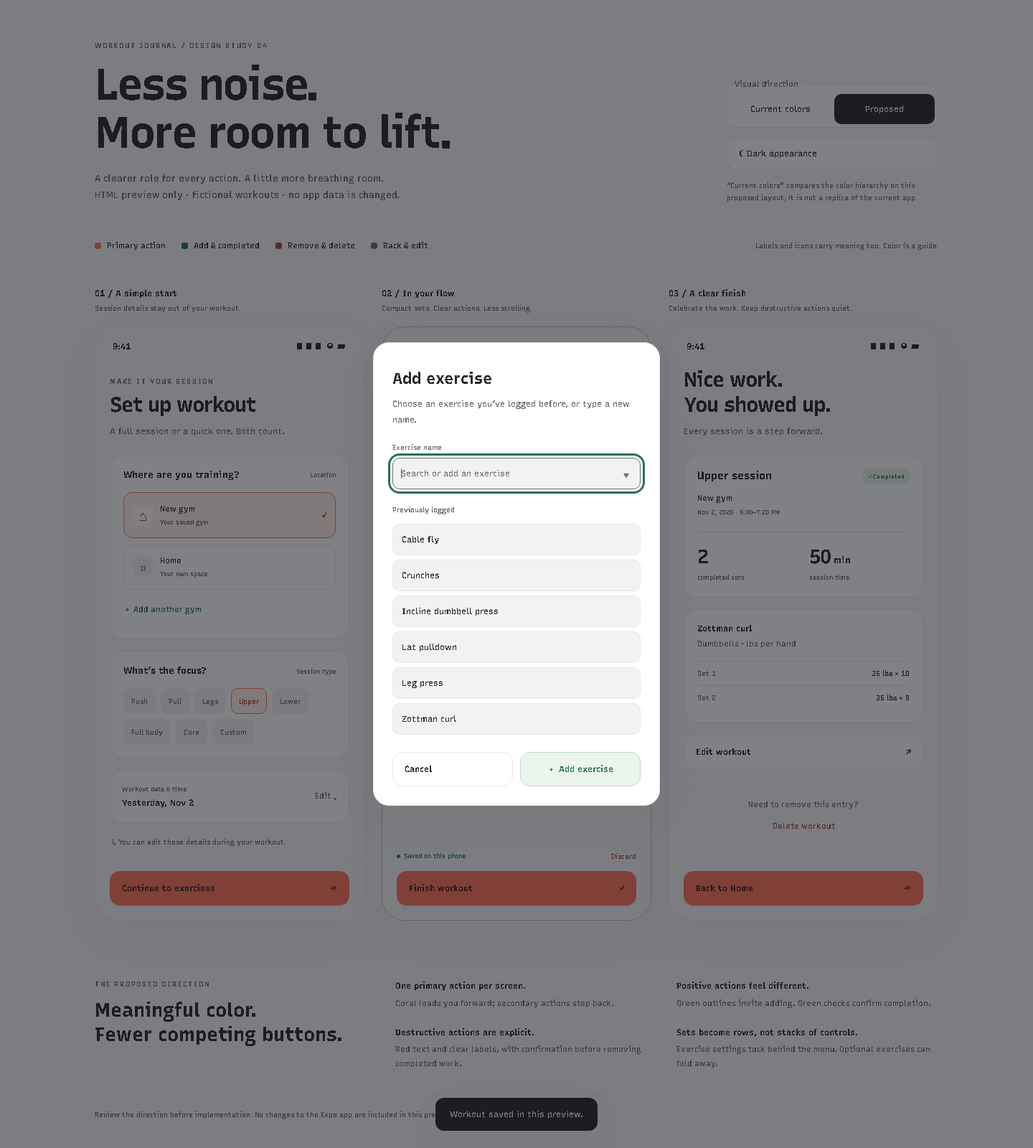
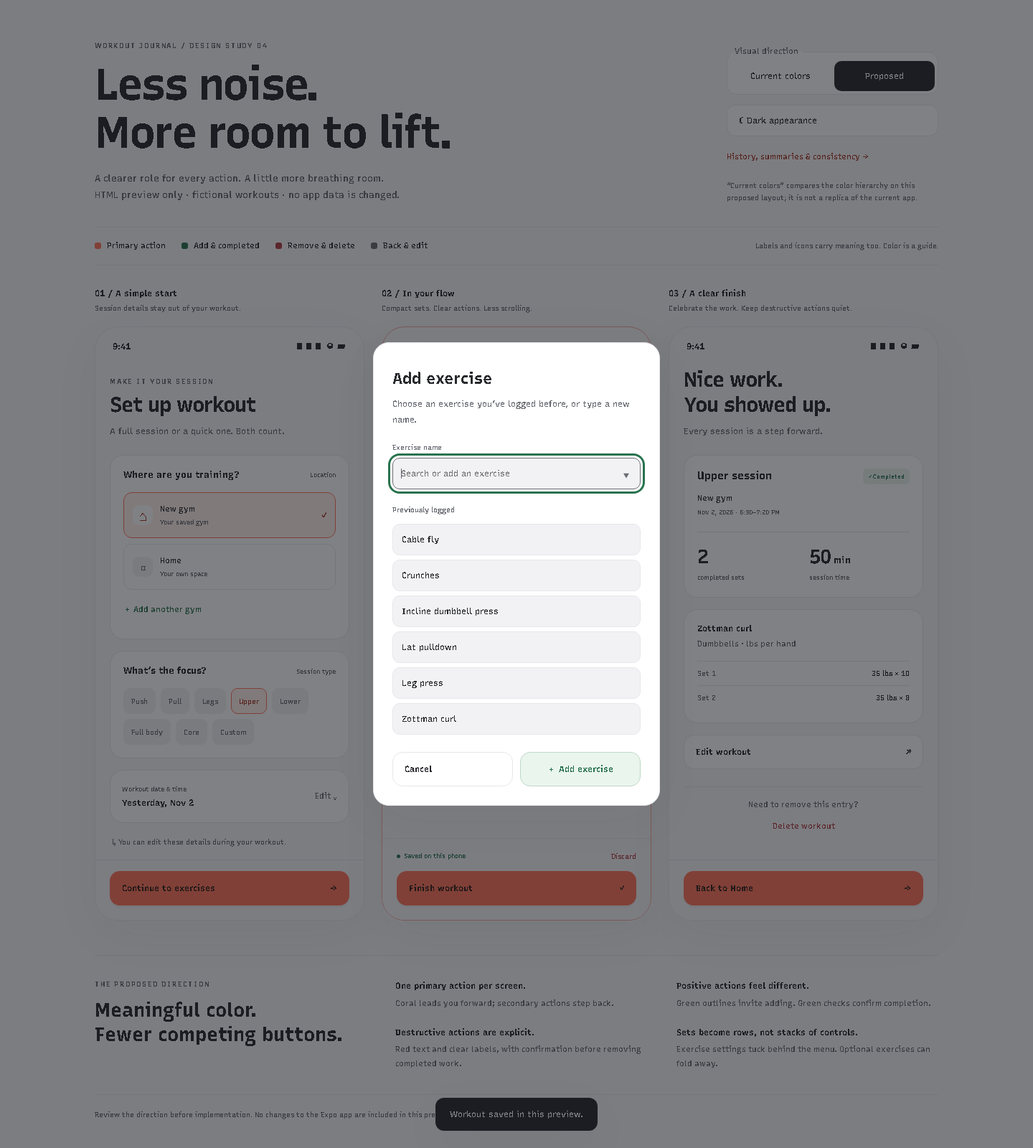
design: preview history summaries and weekly consistency

Changed region(s): [[0.7812, 0.0312, 0.9062, 0.125]]

diff --git a/previews/ui-overhaul/activity-preview.js b/previews/ui-overhaul/activity-preview.js
@@ -1,0 +1,154 @@
+(() => {
+  const $ = selector => document.querySelector(selector);
+  const $$ = selector => [...document.querySelectorAll(selector)];
+  const asOf = '2026-11-04', goal = 3;
+  const date = value => new Date(`${value}T12:00:00Z`);
+  const iso = value => value.toISOString().slice(0, 10);
+  const shift = (value, days) => { const result = date(value); result.setUTCDate(result.getUTCDate() + days); return iso(result); };
+  const fmt = (value, options) => new Intl.DateTimeFormat('en', { timeZone: 'UTC', ...options }).format(date(value));
+  const weekStart = value => shift(value, -((date(value).getUTCDay() + 6) % 7));
+  const monthStart = value => `${value.slice(0, 7)}-01`;
+  const addMonths = (value, amount) => { const result = date(monthStart(value)); result.setUTCMonth(result.getUTCMonth() + amount); return iso(result); };
+  const el = (tag, className, text) => { const node = document.createElement(tag); if (className) node.className = className; if (text !== undefined) node.textContent = text; return node; };
+  const duration = minutes => minutes >= 60 ? `${Math.floor(minutes / 60)}h${minutes % 60 ? ` ${minutes % 60}m` : ''}` : `${minutes}m`;
+  const activeDays = items => new Set(items.map(item => item.day)).size;
+  const exercise = (name, load, reps, groups) => ({ name, groups, sets: [{ load, reps }, { load, reps }] });
+  const exercises = {
+    Push: [exercise('Incline dumbbell press', '35 lbs per hand', 10, ['Chest', 'Shoulders', 'Triceps'])],
+    Pull: [exercise('Lat pulldown', '90 lbs', 10, ['Back', 'Biceps'])],
+    Legs: [exercise('Leg press', '135 lbs per side', 10, ['Quads', 'Glutes'])],
+    Upper: [exercise('Dumbbell press', '40 lbs per hand', 8, ['Chest', 'Shoulders']), exercise('Cable row', '100 lbs', 10, ['Back', 'Biceps'])],
+    Lower: [exercise('Goblet squat', '45 lbs', 10, ['Quads', 'Glutes'])],
+    'Full Body': [exercise('Goblet squat', '45 lbs', 10, ['Quads', 'Glutes']), exercise('Cable row', '100 lbs', 10, ['Back', 'Biceps'])],
+    Core: [exercise('Crunches', 'Bodyweight', 15, ['Core'])],
+  };
+  // Shared fictional history: five achieved weeks, then an open week with two active days.
+  const closedDates = ['2026-09-28', '2026-09-30', '2026-10-02', '2026-10-05', '2026-10-07', '2026-10-09', '2026-10-12', '2026-10-14', '2026-10-16', '2026-10-19', '2026-10-21', '2026-10-23', '2026-10-26', '2026-10-28', '2026-10-30'];
+  const types = ['Push', 'Pull', 'Legs', 'Upper', 'Lower', 'Full Body'];
+  const sessions = closedDates.map((day, index) => ({ day, type: types[index % types.length], kind: index % 4 === 3 ? 'home' : 'gym', minutes: 45 + (index % 3) * 5, time: '18:30' }));
+  sessions.push({ day: '2026-11-02', type: 'Upper', kind: 'gym', minutes: 50, time: '18:30' }, { day: asOf, type: 'Push', kind: 'gym', minutes: 40, time: '07:00' }, { day: asOf, type: 'Core', kind: 'home', minutes: 15, time: '19:00' });
+  sessions.forEach((session, index) => { session.id = `sample-${index}`; session.exercises = exercises[session.type]; session.location = session.kind === 'home' ? 'Home' : 'The neighborhood gym'; });
+  const between = (start, end) => sessions.filter(session => session.day >= start && session.day < end);
+  let historyMonth = monthStart(asOf), locationFilter = 'all', summaryMode = 'month', summaryAnchor = monthStart(asOf), pendingGoal = null;
+  function showScreen(screen) {
+    $('.activity-screens').dataset.active = screen;
+    $$('[data-activity-screen]').forEach(button => button.setAttribute('aria-pressed', String(button.dataset.activityScreen === screen)));
+    $(`[data-panel="${screen}"] .phone-content`).scrollTop = 0;
+    if (matchMedia('(max-width:760px)').matches) $('.screen-tabs').scrollIntoView({ block: 'start' });
+  }
+  function filtered(items) { return items.filter(session => locationFilter === 'all' || session.kind === locationFilter); }
+  function openDay(day) {
+    const items = filtered(sessions.filter(session => session.day === day));
+    $('#day-title').textContent = fmt(day, { weekday: 'long', month: 'long', day: 'numeric' });
+    $('#day-overview').textContent = items.length ? `${items.length} workout${items.length === 1 ? '' : 's'} · 1 active day · ${duration(items.reduce((sum, item) => sum + item.minutes, 0))} recorded` : 'No workouts recorded for this day and location filter.';
+    const cards = items.map(item => {
+      const card = el('article', 'day-session'); card.append(el('h3', '', `${item.type} session`), el('p', 'muted', `${item.location} · ${item.time} · ${item.minutes} min`));
+      item.exercises.forEach(entry => {
+        const block = el('div', 'day-exercise'); block.append(el('strong', '', entry.name));
+        entry.sets.forEach((set, index) => block.append(el('p', 'muted', `Set ${index + 1}: ${set.load} × ${set.reps} reps`))); card.append(block);
+      }); return card;
+    });
+    $('#day-workouts').replaceChildren(...(cards.length ? cards : [el('p', 'day-empty', 'A rest day is part of the bigger picture.')]));
+    $('#day-dialog').showModal(); $('#close-day').focus();
+  }
+  function renderHistory() {
+    const end = addMonths(historyMonth, 1), items = filtered(between(historyMonth, end));
+    $('#calendar-month').textContent = fmt(historyMonth, { month: 'long', year: 'numeric' });
+    $('#calendar-total').textContent = `${activeDays(items)} active day${activeDays(items) === 1 ? '' : 's'} · ${items.length} workout${items.length === 1 ? '' : 's'}`;
+    $('#history-list-title').textContent = historyMonth === monthStart(asOf) ? 'This month' : fmt(historyMonth, { month: 'long' });
+    const cells = Array.from({ length: (date(historyMonth).getUTCDay() + 6) % 7 }, () => { const blank = el('span'); blank.setAttribute('aria-hidden', 'true'); return blank; });
+    for (let day = historyMonth; day < end; day = shift(day, 1)) {
+      const matches = items.filter(item => item.day === day);
+      const button = el('button', `${matches.length ? 'has-workout' : ''} ${matches.length > 1 ? 'multiple' : ''} ${day === asOf ? 'today' : ''} ${day > asOf ? 'future' : ''}`, String(date(day).getUTCDate()));
+      button.dataset.historyDay = day;
+      button.setAttribute('aria-label', `${fmt(day, { weekday: 'long', month: 'long', day: 'numeric', year: 'numeric' })}, ${matches.length} workouts${day === asOf ? ', today' : ''}`);
+      if (day === asOf) button.setAttribute('aria-current', 'date');
+      button.addEventListener('click', () => openDay(day)); cells.push(button);
+    }
+    $('#calendar-days').replaceChildren(...cells);
+    const rows = items.slice().sort((a, b) => b.day.localeCompare(a.day) || b.time.localeCompare(a.time)).map(item => {
+      const button = el('button', 'history-entry'); button.setAttribute('aria-label', `Open ${item.type} workout on ${item.day}`);
+      const tile = el('span', 'date-tile'); tile.append(el('strong', '', String(date(item.day).getUTCDate())), el('small', '', fmt(item.day, { weekday: 'short' })));
+      const copy = el('span', 'entry-copy'); copy.append(el('strong', '', `${item.type} session`), el('small', '', `${item.location} · ${item.minutes} min`));
+      const arrow = el('span', 'entry-arrow', '›'); arrow.setAttribute('aria-hidden', 'true'); button.append(tile, copy, arrow); button.addEventListener('click', () => openDay(item.day)); return button;
+    });
+    $('#history-list').replaceChildren(...(rows.length ? rows : [el('p', 'empty-history', 'No workouts recorded here yet. Choose another month or location.')]));
+  }
+  function summaryRange() {
+    if (summaryMode === 'week') { const start = weekStart(summaryAnchor); return { start, end: shift(start, 7) }; }
+    if (summaryMode === 'year') return { start: `${summaryAnchor.slice(0, 4)}-01-01`, end: `${Number(summaryAnchor.slice(0, 4)) + 1}-01-01` };
+    return { start: monthStart(summaryAnchor), end: addMonths(summaryAnchor, 1) };
+  }
+  function renderSummary() {
+    const { start, end } = summaryRange(), items = between(start, end);
+    const label = summaryMode === 'year' ? start.slice(0, 4) : summaryMode === 'month' ? fmt(start, { month: 'long', year: 'numeric' }) : `${fmt(start, { month: 'short', day: 'numeric' })}–${fmt(shift(end, -1), { month: 'short', day: 'numeric' })}`;
+    $('#summary-period-title').textContent = label;
+    $('#summary-period-note').textContent = start <= asOf && end > asOf ? 'So far · through Nov 4' : start > asOf ? 'No recorded activity' : 'Completed period';
+    $('#summary-days').textContent = activeDays(items); $('#summary-sessions').textContent = items.length; $('#summary-time').textContent = duration(items.reduce((sum, item) => sum + item.minutes, 0));
+    $('#summary-gym').textContent = items.filter(item => item.kind === 'gym').length; $('#summary-home').textContent = items.filter(item => item.kind === 'home').length;
+    $('#summary-empty').hidden = items.length > 0;
+    $('#summary-goal-context').hidden = summaryMode === 'month';
+    if (summaryMode === 'week') $('#summary-goal-context').textContent = `${activeDays(items)} / ${goal} active days · Weekly goal`;
+    if (summaryMode === 'year') {
+      let running = 0, longest = 0;
+      for (let week = weekStart(start); week < end; week = shift(week, 7)) {
+        running = activeDays(between(week, shift(week, 7))) >= goal ? running + 1 : 0;
+        longest = Math.max(longest, running);
+      }
+      $('#summary-goal-context').textContent = `Longest weekly streak: ${longest} weeks in this year`;
+    }
+    const buckets = [];
+    if (summaryMode === 'year') {
+      for (let month = 0; month < 12; month++) { const bucket = `${start.slice(0, 4)}-${String(month + 1).padStart(2, '0')}-01`; buckets.push({ label: fmt(bucket, { month: 'narrow' }), description: fmt(bucket, { month: 'long' }), value: activeDays(items.filter(item => item.day.startsWith(bucket.slice(0, 7)))) }); }
+    } else if (summaryMode === 'week') {
+      for (let offset = 0; offset < 7; offset++) { const bucket = shift(start, offset); buckets.push({ label: fmt(bucket, { weekday: 'narrow' }), description: fmt(bucket, { weekday: 'long' }), value: activeDays(items.filter(item => item.day === bucket)) }); }
+    } else {
+      for (let bucket = start; bucket < end; bucket = shift(bucket, 7)) {
+        const next = shift(bucket, 7) < end ? shift(bucket, 7) : end;
+        buckets.push({ label: `${date(bucket).getUTCDate()}–${date(shift(next, -1)).getUTCDate()}`, description: `Days ${date(bucket).getUTCDate()}–${date(shift(next, -1)).getUTCDate()}`, value: activeDays(items.filter(item => item.day >= bucket && item.day < next)) });
+      }
+    }
+    const max = Math.max(1, ...buckets.map(bucket => bucket.value));
+    $('#chart-unit').textContent = summaryMode === 'year' ? 'Active days / month' : summaryMode === 'month' ? 'Active days / date range' : 'Activity by day';
+    $('#activity-chart').setAttribute('aria-label', buckets.map(bucket => `${bucket.description}: ${bucket.value} active days`).join(', '));
+    $('#activity-chart').replaceChildren(...buckets.map(bucket => { const column = el('div', 'chart-column'); const bar = el('span', `bar${bucket.value ? '' : ' zero'}`); bar.style.height = `${Math.max(2, bucket.value / max * 65)}px`; column.append(el('strong', '', String(bucket.value)), bar, el('small', '', bucket.label)); return column; }));
+    const shownTypes = [...new Set(['Push', 'Pull', 'Legs', ...items.map(item => item.type)])];
+    $('#type-breakdown').replaceChildren(...shownTypes.map(type => {
+      const count = items.filter(item => item.type === type).length;
+      const row = el('div', 'type-row'); row.dataset.type = type; row.dataset.count = count;
+      const track = el('span', 'type-track'), fill = el('span', 'type-fill'); fill.style.width = `${items.length ? count / items.length * 100 : 0}%`; track.append(fill); row.append(el('span', '', type), track, el('strong', '', String(count))); return row;
+    }));
+    const groups = [...new Set(items.flatMap(item => item.exercises.flatMap(entry => entry.groups)))].sort();
+    $('#muscle-chips').replaceChildren(...(groups.length ? groups.map(group => el('span', '', group)) : [el('p', 'small muted', 'No exercise coverage recorded in this period.')]));
+  }
+  function renderConsistency() {
+    const current = weekStart(asOf), first = weekStart(sessions[0].day), weeks = [];
+    for (let start = first; start <= current; start = shift(start, 7)) { const days = activeDays(between(start, shift(start, 7))); weeks.push({ start, days, met: days >= goal }); }
+    let longest = 0, running = 0;
+    weeks.forEach(week => { running = week.met ? running + 1 : 0; longest = Math.max(longest, running); });
+    let cursor = weeks.length - 1, streak = 0; if (!weeks[cursor].met) cursor--;
+    while (cursor >= 0 && weeks[cursor].met) { streak++; cursor--; }
+    $('#current-streak').textContent = streak; $('#longest-streak').textContent = `${longest} weeks`;
+    const currentDays = weeks.at(-1).days; $('#week-active').textContent = currentDays;
+    $('.goal-track').setAttribute('aria-valuenow', String(Math.min(goal, currentDays))); $('.goal-track>span').style.width = `${Math.min(1, currentDays / goal) * 100}%`;
+    $('#consistency-week').replaceChildren(...Array.from({ length: 7 }, (_, index) => {
+      const day = shift(current, index), active = sessions.some(item => item.day === day);
+      const cell = el('span', `${active ? 'active' : ''} ${day === asOf ? 'today' : ''}`); cell.setAttribute('aria-label', `${fmt(day, { weekday: 'long', month: 'short', day: 'numeric' })}, ${active ? 'workout completed' : 'no workout logged'}`); cell.append(el('small', '', fmt(day, { weekday: 'narrow' })), el('b', '', active ? '✓' : String(date(day).getUTCDate()))); return cell;
+    }));
+    $('#past-weeks').replaceChildren(...weeks.slice(0, -1).reverse().map(week => { const row = el('div', 'past-week'); row.append(el('span', '', `${fmt(week.start, { month: 'short', day: 'numeric' })}–${fmt(shift(week.start, 6), { month: 'short', day: 'numeric' })}`), el('span', week.met ? 'met' : 'muted', week.met ? `✓ ${week.days}/${goal} days` : `${week.days}/${goal} days`)); return row; }));
+  }
+  $('#theme-toggle').addEventListener('click', () => { const dark = document.documentElement.dataset.theme !== 'dark'; document.documentElement.dataset.theme = dark ? 'dark' : 'light'; $('#theme-toggle').setAttribute('aria-pressed', String(dark)); $('#theme-toggle').textContent = dark ? '☀ Light appearance' : '☾ Dark appearance'; });
+  $$('[data-activity-screen]').forEach(button => button.addEventListener('click', () => showScreen(button.dataset.activityScreen)));
+  $$('[data-filter]').forEach(button => button.addEventListener('click', () => { locationFilter = button.dataset.filter; $$('[data-filter]').forEach(item => item.setAttribute('aria-pressed', String(item === button))); renderHistory(); }));
+  $('#history-previous').addEventListener('click', () => { historyMonth = addMonths(historyMonth, -1); renderHistory(); });
+  $('#history-next').addEventListener('click', () => { historyMonth = addMonths(historyMonth, 1); renderHistory(); });
+  $('#close-day').addEventListener('click', () => $('#day-dialog').close());
+  $$('[data-period]').forEach(button => button.addEventListener('click', () => { summaryMode = button.dataset.period; summaryAnchor = asOf; $$('[data-period]').forEach(item => item.setAttribute('aria-pressed', String(item === button))); renderSummary(); }));
+  function moveSummary(direction) { summaryAnchor = summaryMode === 'week' ? shift(summaryAnchor, 7 * direction) : addMonths(summaryAnchor, (summaryMode === 'year' ? 12 : 1) * direction); renderSummary(); }
+  $('#summary-previous').addEventListener('click', () => moveSummary(-1)); $('#summary-next').addEventListener('click', () => moveSummary(1));
+  $('#open-consistency').addEventListener('click', () => showScreen('consistency'));
+  $('#change-goal').addEventListener('click', () => { $('#goal-select').value = String(pendingGoal ?? goal); $('#goal-dialog').showModal(); });
+  $('#cancel-goal').addEventListener('click', () => $('#goal-dialog').close());
+  $('#goal-form').addEventListener('submit', event => { event.preventDefault(); pendingGoal = Number($('#goal-select').value); $('#pending-goal').hidden = false; $('#pending-goal').textContent = `Next Monday, Nov 9: ${pendingGoal} active days per week.`; $('#goal-dialog').close(); });
+  renderHistory(); renderSummary(); renderConsistency();
+})();

diff --git a/previews/ui-overhaul/activity-preview.html b/previews/ui-overhaul/activity-preview.html
@@ -1,0 +1,42 @@
+<!doctype html>
+<html lang="en" data-theme="light" data-style="proposed">
+<head><meta charset="utf-8"><meta name="viewport" content="width=device-width,initial-scale=1"><meta name="color-scheme" content="light dark"><title>Workout journal — History, summaries & consistency</title><link rel="stylesheet" href="ui-overhaul-preview.css"><link rel="stylesheet" href="activity-preview.css"><script src="activity-preview.js" defer></script></head>
+<body>
+  <header class="preview-header"><div><p class="eyebrow">WORKOUT JOURNAL / DESIGN STUDY 04</p><h1>See the work.<br>Keep the momentum.</h1><p class="intro">History, summaries, and weekly consistency in the same visual language.<br>Interactive HTML only · fictional history through November 4, 2026.</p></div><div class="preview-controls"><a class="button secondary" href="ui-overhaul-preview.html">← Workout flow preview</a><button class="theme-toggle" id="theme-toggle" aria-pressed="false">☾ Dark appearance</button><p class="control-note">One shared sample history feeds every view. Two sessions in one day still count as one active day.</p></div></header>
+  <nav class="screen-tabs" aria-label="Activity preview screens"><button data-activity-screen="history" aria-pressed="true">01 History</button><button data-activity-screen="summary" aria-pressed="false">02 Summary</button><button data-activity-screen="consistency" aria-pressed="false">03 Consistency</button></nav>
+  <main class="screens activity-screens" data-active="history">
+    <section class="screen-panel" data-panel="history" aria-labelledby="history-caption"><div class="panel-caption"><h2 id="history-caption">01 / Your training history</h2><p>A calendar to explore. A record to come back to.</p></div><div class="phone"><div class="status-bar" aria-hidden="true"><span>9:41</span><span class="status-icons">▮▮▮ ◒ ▰</span></div><div class="phone-content">
+      <a class="back-link neutral" href="ui-overhaul-preview.html">‹ Home</a><p class="eyebrow">ONE SESSION AT A TIME</p><h3>History</h3><p class="muted">Your effort, all in one place.</p>
+      <div class="filter-tabs" role="group" aria-label="Workout location filter"><button data-filter="all" aria-pressed="true">All workouts</button><button data-filter="gym" aria-pressed="false">Gym</button><button data-filter="home" aria-pressed="false">Home</button></div>
+      <div class="card activity-calendar"><div class="period-navigation"><button class="icon-button neutral" id="history-previous" aria-label="Previous month">‹</button><h4 id="calendar-month">November 2026</h4><button class="icon-button neutral" id="history-next" aria-label="Next month">›</button></div><div class="calendar-weekdays" aria-hidden="true"><span>M</span><span>T</span><span>W</span><span>T</span><span>F</span><span>S</span><span>S</span></div><div class="activity-days" id="calendar-days"></div><div class="calendar-key"><span><i></i> Workout logged</span><span>Ring = today</span></div><p class="calendar-total" id="calendar-total" aria-live="polite"></p></div>
+      <div class="section-heading history-list-heading"><h4 id="history-list-title">This month</h4><span class="tiny-label">Most recent first</span></div><div id="history-list"></div>
+    </div><div class="phone-footer"><a class="button primary" href="ui-overhaul-preview.html">Log a workout <span aria-hidden="true">＋</span></a></div></div></section>
+
+    <section class="screen-panel" data-panel="summary" aria-labelledby="summary-caption"><div class="panel-caption"><h2 id="summary-caption">02 / The bigger picture</h2><p>Useful patterns, without a wall of numbers.</p></div><div class="phone featured"><div class="status-bar" aria-hidden="true"><span>9:41</span><span class="status-icons">▮▮▮ ◒ ▰</span></div><div class="phone-content">
+      <a class="back-link neutral" href="ui-overhaul-preview.html">‹ Home</a><p class="eyebrow">SMALL SESSIONS ADD UP</p><h3>Your summary</h3><p class="muted">A little perspective on your progress.</p>
+      <div class="filter-tabs" role="group" aria-label="Summary period"><button data-period="week" aria-pressed="false">Week</button><button data-period="month" aria-pressed="true">Month</button><button data-period="year" aria-pressed="false">Year</button></div>
+      <div class="period-navigation summary-navigation"><button class="icon-button neutral" id="summary-previous" aria-label="Previous summary period">‹</button><div><h4 id="summary-period-title">November 2026</h4><p class="small muted" id="summary-period-note">So far · through Nov 4</p></div><button class="icon-button neutral" id="summary-next" aria-label="Next summary period">›</button></div>
+      <div class="overview-metrics" aria-live="polite"><div><strong id="summary-days">2</strong><span>active days</span></div><div><strong id="summary-sessions">3</strong><span>workouts</span></div><div><strong id="summary-time">1h 45m</strong><span>recorded time</span></div></div>
+      <p class="period-context" id="summary-goal-context" hidden></p>
+      <p class="summary-empty" id="summary-empty" hidden>No workouts recorded in this period. Your next session can be your starting point.</p>
+      <div class="card chart-card"><div class="section-heading"><h4>Showing up</h4><span class="tiny-label" id="chart-unit">Active days / week</span></div><div id="activity-chart" class="activity-chart" role="img" aria-label="Active days by week"></div><p class="small muted">A day counts once, even with multiple sessions.</p></div>
+      <div class="card breakdown-card"><div class="section-heading"><h4>How you trained</h4><span class="tiny-label">Workout sessions</span></div><div id="type-breakdown"></div><p class="small muted breakdown-note">A short Push session still counts as one Push workout.</p></div>
+      <div class="card"><div class="section-heading"><h4>Where you trained</h4></div><div class="location-breakdown"><span>Gym <strong id="summary-gym">2</strong></span><span>Home <strong id="summary-home">1</strong></span></div></div>
+      <div class="card"><div class="section-heading"><h4>Muscles trained</h4><span class="tiny-label">From logged exercises</span></div><div class="muscle-chips" id="muscle-chips"></div><p class="small muted coverage-note">Groups can overlap within one workout.</p></div>
+    </div><div class="phone-footer"><button class="button secondary neutral" id="open-consistency">See weekly consistency <span aria-hidden="true">→</span></button></div></div></section>
+
+    <section class="screen-panel" data-panel="consistency" aria-labelledby="consistency-caption"><div class="panel-caption"><h2 id="consistency-caption">03 / A rhythm that fits</h2><p>Weekly goals, with room for real life.</p></div><div class="phone"><div class="status-bar" aria-hidden="true"><span>9:41</span><span class="status-icons">▮▮▮ ◒ ▰</span></div><div class="phone-content">
+      <a class="back-link neutral" href="ui-overhaul-preview.html">‹ Home</a><p class="eyebrow">CONSISTENCY OVER PERFECTION</p><h3>Keep showing up</h3><p class="muted">Rest days belong in the plan, too.</p>
+      <div class="card streak-hero"><span class="success-badge">Weekly streak</span><div class="streak-number"><strong id="current-streak">5</strong><span>weeks<br>consistent</span></div><p>Your weekly goal met, five weeks in a row.</p><div class="streak-best"><span>Longest streak</span><strong id="longest-streak">5 weeks</strong></div></div>
+      <div class="card weekly-goal-card"><div class="section-heading"><h4>This week</h4><span class="tiny-label">Nov 2–8</span></div><div class="weekly-goal-value"><strong><span id="week-active">2</span><small> / 3</small></strong><span>active days</span><span class="session-tag">In progress</span></div><div class="goal-track" role="progressbar" aria-label="Weekly activity goal" aria-valuemin="0" aria-valuemax="3" aria-valuenow="2"><span></span></div><div class="consistency-week" id="consistency-week"></div><p class="small muted">One more active day meets your goal. Gym and home workouts both count.</p></div>
+      <div class="goal-setting"><div><p class="small muted">Your weekly goal</p><strong>3 active days</strong></div><button class="text-button neutral" id="change-goal">Change</button></div><p id="pending-goal" class="pending-goal" role="status" hidden></p>
+      <div class="section-heading past-weeks-heading"><h4>Recent weeks</h4><span class="tiny-label">Monday–Sunday</span></div><div class="past-weeks" id="past-weeks"></div>
+      <p class="quiet-note">This week is still open. Your streak stays intact while you work toward your goal.</p>
+    </div><div class="phone-footer"><a class="button primary" href="ui-overhaul-preview.html">Start a workout <span aria-hidden="true">→</span></a></div></div></section>
+  </main>
+  <section class="rationale"><div><p class="eyebrow">THE CONNECTION BETWEEN THEM</p><h2>One history.<br>Three useful views.</h2></div><ul><li><strong>History answers “what did I do?”</strong> Tap a date to see every session, exercise, and completed set.</li><li><strong>Summary answers “how have I trained?”</strong> Switch week, month, or year; see session types, locations, and activity.</li><li><strong>Consistency answers “am I finding a rhythm?”</strong> Weekly goals reward repeat attendance while leaving room for rest.</li><li><strong>No invented fitness score.</strong> Active days and sessions stay distinct. An unfinished week is still in progress.</li></ul></section>
+  <footer class="preview-footer">Fictional data for visual review. Calendar/history/reporting are not connected to the native app yet.</footer>
+  <dialog id="day-dialog" aria-labelledby="day-title"><div class="day-dialog-heading"><div><p class="eyebrow">WORKOUT HISTORY</p><h2 id="day-title">Wednesday, November 4</h2></div><button class="icon-button neutral" id="close-day" aria-label="Close day details">×</button></div><p id="day-overview"></p><div id="day-workouts"></div></dialog>
+  <dialog id="goal-dialog" aria-labelledby="goal-title"><h2 id="goal-title">A goal that fits your week</h2><p>Choose active days, not a fixed split. Push, Pull, Legs, full body, and home sessions all count.</p><form id="goal-form"><label>Active days per week<select id="goal-select"><option value="1">1 day</option><option value="2">2 days</option><option value="3" selected>3 days</option><option value="4">4 days</option><option value="5">5 days</option><option value="6">6 days</option><option value="7">7 days</option></select></label><p class="small muted">Changes start next Monday, Nov 9. This week’s goal stays at 3 days.</p><div class="dialog-actions"><button type="button" class="button secondary neutral" id="cancel-goal">Cancel</button><button type="submit" class="button primary">Save goal</button></div></form></dialog>
+</body>
+</html>

diff --git a/previews/ui-overhaul/activity-preview.css b/previews/ui-overhaul/activity-preview.css
@@ -1,0 +1,5 @@
+a{text-decoration:none}button,a{-webkit-tap-highlight-color:transparent}.activity-screens .phone-content>.muted{margin-bottom:20px}.filter-tabs{display:flex;border:1px solid var(--line);background:var(--surface);padding:4px;border-radius:12px;gap:4px}.filter-tabs button{flex:1;background:transparent;color:var(--muted);font-size:10px;min-height:38px;border-radius:9px;padding:7px 5px}.filter-tabs button[aria-pressed=true]{background:var(--coral-soft);color:var(--coral-ink);font-weight:700}.period-navigation{display:flex;align-items:center;justify-content:space-between;gap:6px}.period-navigation h4{font-size:13px;text-align:center}.period-navigation .icon-button{font-size:25px;width:32px}.activity-calendar{padding:12px 12px 0}.calendar-weekdays,.activity-days{display:grid;grid-template-columns:repeat(7,minmax(0,1fr));gap:3px;text-align:center}.calendar-weekdays{font-size:9px;color:var(--muted);padding:10px 0 8px}.activity-days{row-gap:5px}.activity-days button{height:34px;min-width:0;border-radius:10px;background:transparent;font-size:10px;position:relative;padding:3px;border:1px solid transparent}.activity-days button.has-workout{background:var(--green-soft);color:var(--green);font-weight:700}.activity-days button.today{border:1px solid var(--coral)}.activity-days button:hover{border-color:var(--muted)}.activity-days button.multiple::after{content:'••';position:absolute;bottom:0;left:0;right:0;font-size:8px;letter-spacing:1px}.activity-days button.future{color:var(--muted);opacity:.6}.calendar-key{display:flex;justify-content:space-between;font-size:8px;color:var(--muted);margin:17px 2px 12px}.calendar-key>span:first-child{display:flex;align-items:center;gap:5px}.calendar-key i{height:6px;width:6px;border-radius:50%;background:var(--green)}.calendar-total{border-top:1px solid var(--line);padding:12px 2px;font-size:10px;color:var(--muted)}.history-list-heading{margin:24px 0 12px}.history-entry{width:100%;text-align:left;border:1px solid var(--line);border-radius:14px;background:var(--surface);padding:14px;margin-bottom:9px;display:flex;gap:12px;align-items:center}.history-entry .date-tile{width:36px;text-align:center;border-radius:10px;background:var(--soft);padding:7px 4px;flex-shrink:0}.date-tile strong{font-size:18px;line-height:1.1;display:block}.date-tile small{font-size:8px;color:var(--muted)}.history-entry .entry-copy{flex:1;min-width:0}.entry-copy strong{font-size:11px;display:block}.entry-copy small{font-size:9px;color:var(--muted);display:block;line-height:1.7;margin-top:4px}.history-entry .entry-arrow{color:var(--muted)}.empty-history{font-size:11px;color:var(--muted);padding:18px 4px;line-height:1.8}.summary-navigation{margin:18px 0 22px;text-align:center}.summary-navigation p{font-size:9px;margin-top:5px}.overview-metrics{display:grid;grid-template-columns:1fr 1fr 1.2fr;gap:10px;margin:0 0 22px}.overview-metrics strong{display:block;font-size:25px;letter-spacing:-1px;line-height:1.25;white-space:nowrap}.overview-metrics>div:last-child strong{font-size:20px;line-height:1.55;letter-spacing:-.7px}.overview-metrics span{display:block;font-size:9px;color:var(--muted);margin-top:4px}.chart-card{padding:16px}.chart-card h4,.breakdown-card h4{font-size:13px}.activity-chart{height:112px;display:flex;align-items:stretch;gap:10px;margin:20px 0 15px}.chart-column{flex:1;display:flex;flex-direction:column;align-items:center;justify-content:flex-end;gap:5px;min-width:0}.chart-column strong{font-size:9px;color:var(--muted);font-weight:500}.chart-column .bar{width:100%;max-width:27px;min-height:2px;background:var(--coral);border-radius:5px 5px 3px 3px}.chart-column .bar.zero{background:var(--line)}.chart-column small{font-size:8px;color:var(--muted);white-space:nowrap}.chart-card>.small{font-size:9px;line-height:1.7}.breakdown-card{padding:16px}.type-row{display:grid;grid-template-columns:65px 1fr 20px;align-items:center;gap:10px;padding:9px 0;border-bottom:1px solid var(--line);font-size:10px}.type-row:last-child{border-bottom:0}.type-row strong{text-align:right;font-size:12px}.type-row .type-track{height:5px;background:var(--soft);border-radius:5px;overflow:hidden}.type-row .type-fill{display:block;height:100%;background:var(--coral);border-radius:inherit}.breakdown-note{font-size:9px;margin-top:13px;line-height:1.7}.location-breakdown{display:grid;grid-template-columns:1fr 1fr;font-size:11px;gap:10px}.location-breakdown span{display:flex;justify-content:space-between;align-items:center;background:var(--soft);border-radius:10px;padding:11px}.location-breakdown strong{font-size:19px}.muscle-chips{display:flex;flex-wrap:wrap;gap:6px}.muscle-chips>span{padding:6px 9px;background:var(--soft);border-radius:8px;font-size:9px}.coverage-note{font-size:9px;margin-top:13px;line-height:1.7}.summary-empty{padding:14px;border:1px dashed var(--line);border-radius:12px;color:var(--muted);font-size:11px;line-height:1.8;margin:14px 0}.streak-hero{background:linear-gradient(145deg,var(--green-soft),var(--surface));padding:20px}.streak-number{display:flex;gap:16px;align-items:center;margin:15px 0 10px}.streak-number>strong{font-size:76px;line-height:1;letter-spacing:-5px;font-weight:700;color:var(--green)}.streak-number>span{font-size:16px;line-height:1.4}.streak-hero>p{font-size:11px;color:var(--muted);line-height:1.8}.streak-best{display:flex;justify-content:space-between;margin-top:18px;padding-top:15px;border-top:1px solid var(--green-line);font-size:10px;color:var(--muted)}.streak-best strong{color:var(--ink)}.weekly-goal-card{padding:16px}.weekly-goal-value{display:flex;align-items:baseline;gap:8px;margin:16px 0 12px}.weekly-goal-value>strong{font-size:29px;line-height:1.2}.weekly-goal-value small{font-size:18px;color:var(--muted);font-weight:500}.weekly-goal-value>span:not(.session-tag){font-size:10px;color:var(--muted)}.weekly-goal-value .session-tag{margin-left:auto;font-size:8px}.goal-track{height:6px;background:var(--soft);border-radius:6px;overflow:hidden}.goal-track>span{display:block;height:100%;width:66.666%;background:var(--green);border-radius:inherit}.consistency-week{display:grid;grid-template-columns:repeat(7,minmax(0,1fr));gap:6px;margin:18px 0 15px}.consistency-week>span{text-align:center}.consistency-week small{display:block;font-size:8px;color:var(--muted);margin-bottom:7px}.consistency-week b{display:grid;place-items:center;background:var(--soft);height:29px;border-radius:9px;font-size:10px;font-weight:500;border:1px solid transparent}.consistency-week .active b{background:var(--green-soft);color:var(--green)}.consistency-week .today b{border-color:var(--coral)}.weekly-goal-card>.small{font-size:10px;line-height:1.8}.goal-setting{display:flex;align-items:center;justify-content:space-between;padding:2px 4px 10px}.goal-setting strong{font-size:12px;display:block;margin-top:4px}.goal-setting .small{font-size:9px}.pending-goal{font-size:10px;padding:10px 12px;background:var(--coral-soft);color:var(--coral-ink);border-radius:10px}.past-weeks-heading{margin:20px 0 12px}.past-weeks{border:1px solid var(--line);border-radius:14px;background:var(--surface);overflow:hidden}.past-week{display:flex;justify-content:space-between;gap:12px;align-items:center;border-bottom:1px solid var(--line);padding:12px 14px;font-size:10px}.past-week:last-child{border:0}.past-week .met{color:var(--green);font-size:9px}.day-dialog-heading{display:flex;align-items:flex-start;gap:10px;justify-content:space-between}.day-dialog-heading h2{font-size:22px}.day-dialog-heading .icon-button{margin-top:-8px;flex-shrink:0}#day-dialog{max-height:85dvh;overflow:auto;width:min(440px,calc(100% - 24px))}#day-overview{margin-bottom:20px}.day-session{border:1px solid var(--line);border-radius:14px;padding:16px;margin-top:14px}.day-session>h3{font-size:18px;letter-spacing:0;margin:0 0 6px}.day-session>p{font-size:10px!important}.day-exercise{padding-top:14px;margin-top:14px;border-top:1px solid var(--line)}.day-exercise strong{font-size:11px}.day-exercise p{font-size:10px!important;padding-top:5px}.day-empty{font-size:12px;color:var(--muted);padding:20px 0}#goal-form label{margin:20px 0 12px}#goal-form select{min-height:48px}#goal-form>.small{font-size:10px}
+@media(max-width:1100px) and (min-width:761px){.overview-metrics strong{font-size:22px}.overview-metrics>div:last-child strong{font-size:17px}.calendar-weekdays,.activity-days{gap:2px}.activity-calendar{padding-inline:8px}.weekly-goal-value{gap:5px}.weekly-goal-value .session-tag{font-size:7px;padding-inline:5px}.consistency-week{gap:4px}}
+@media(max-width:760px){.activity-screens[data-active=history] [data-panel]:not([data-panel=history]),.activity-screens[data-active=summary] [data-panel]:not([data-panel=summary]),.activity-screens[data-active=consistency] [data-panel]:not([data-panel=consistency]){display:none}.preview-controls>a{min-height:50px;font-size:10px}.activity-chart{gap:7px}.chart-column small{font-size:8px}}
+
+.period-context{font-size:10px;line-height:1.7;padding:11px 12px;background:var(--green-soft);color:var(--green);border-radius:10px;margin-bottom:16px}

diff --git a/previews/ui-overhaul/ui-overhaul-preview.css b/previews/ui-overhaul/ui-overhaul-preview.css
@@ -13,3 +13,4 @@
 .back-link{display:inline-flex;align-items:center;gap:6px;min-height:44px;padding:8px;background:transparent;border-radius:8px;margin-left:-8px;color:var(--muted);font-size:12px;font-weight:500}.back-link:hover{background:var(--soft)}[data-style=current] .back-link{background:transparent;color:var(--muted);border-radius:8px}.back-link svg{flex-shrink:0}
 
 #fly-details{display:grid;gap:12px;margin-top:16px;padding-top:16px;border-top:1px solid var(--line)}#fly-details>.text-button{justify-self:start}
+.activity-preview-link{font-size:11px;color:var(--coral-ink);text-decoration:none;min-height:32px;display:flex;align-items:center}.activity-preview-link:hover{text-decoration:underline}

diff --git a/previews/ui-overhaul/ui-overhaul-preview.html b/previews/ui-overhaul/ui-overhaul-preview.html
@@ -14,6 +14,7 @@
     <div class="preview-controls">
       <fieldset class="segmented"><legend>Visual direction</legend><button data-direction="current" aria-pressed="false">Current colors</button><button data-direction="proposed" aria-pressed="true">Proposed</button></fieldset>
       <button class="theme-toggle" id="theme-toggle" aria-pressed="false">☾ Dark appearance</button>
+      <a class="activity-preview-link" href="activity-preview.html">History, summaries & consistency →</a>
       <p class="control-note">“Current colors” compares the color hierarchy on this proposed layout; it is not a replica of the current app.</p>
     </div>
   </header>

diff --git a/docs/ui-overhaul-preview.md b/docs/ui-overhaul-preview.md
@@ -36,3 +36,15 @@ Finishing the preview's editable exercise remembers its name for subsequent sele
 Native acceptance: query the persisted exercise catalog populated by completed workouts; suggestions must survive app restarts and be available in both new logging and saved-workout editing. Reuse the exercise identity when selected, allow new names, and retain gym-specific equipment identities and progression. Do not seed the actual app with this preview's fictional names/history. Verify reuse after finishing, restart persistence, filtering, new-name entry, case/space duplicates, and separation of equipment across gyms.
 
 Preview verification covers case-insensitive filtering, selection, remembering a newly completed exercise, deduplication, and excluding unlogged names. Screenshot: [exercise suggestions](../screenshots/ui-overhaul-exercise-suggestions.png).
+
+## History, summaries, and consistency
+
+Open the [activity preview](../previews/ui-overhaul/activity-preview.html). It shares fonts, semantic colors, cards, and navigation styling with the workout-flow preview. A link in each preview connects the two.
+
+- History: monthly calendar, today ring, completed-day markers, multiple-session indicators, gym/Home filters, and recent sessions. Tap a date or session to open a centered day sheet showing every matching workout, its duration/location, exercises, and sets. Empty dates/months have an explicit state.
+- Summary: Week/Month/Year with period navigation, unique active days, workout-session counts, recorded time, activity bars, Push/Pull/Legs and other type counts, gym/Home sessions, and muscle groups from logged exercises. Current periods say “so far”; empty periods show zero activity without inventing comparisons.
+- Consistency: current and longest weekly streaks, this week's active-day goal, recent achieved weeks, and a goal-change dialog. The current unmet week remains in progress; rest days are allowed. Goal changes apply next Monday and do not rewrite the current week.
+
+All three views derive from one fictional sample through November 4, 2026. November contains 3 sessions on 2 dates: Upper on Nov 2, Push plus Core on Nov 4. Five earlier weeks each meet a 3-day goal. This deliberately tests the distinction between sessions, active days, and weekly streaks. Data and goal edits are temporary and reset on reload.
+
+Run `node scripts/verify-activity-preview.mjs`. Chrome checks cover shared totals, type/location conservation, calendar/day details, empty days/periods, focus restoration, period navigation, weekly streak behavior, next-week-only target changes, light/dark themes, and 320px/390px layouts. Images are saved in `screenshots/activity-preview-*.png`. This is a visual prototype; native calendar/reporting/streak functionality is still planned separately from the merged logger.

diff --git a/README.md b/README.md
@@ -12,6 +12,8 @@ Open [design preview](previews/coral-daylight/design-preview.html) directly in a
 
 Before the next native UI change, open [the interactive UI-overhaul preview](previews/ui-overhaul/ui-overhaul-preview.html) in a browser. It compares the proposed action-color hierarchy on setup, logging, and saved-workout screens, with light/dark appearance and fictional sample data. Run `node scripts/verify-ui-overhaul.mjs` for its Chrome interaction/responsive checks. This preview does not modify the Expo app.
 
+The matching [history, summary, and consistency preview](previews/ui-overhaul/activity-preview.html) shows calendars, day details, weekly/monthly/annual reporting, and weekly goals/streaks using one fictional history. Run `node scripts/verify-activity-preview.mjs` to verify its interactions and shared counts.
+
 - [Requirements and behavior](docs/requirements.md)
 - [Architecture and decision rationale](docs/architecture.md)
 - [Data model and export contracts](docs/data-model.md)
